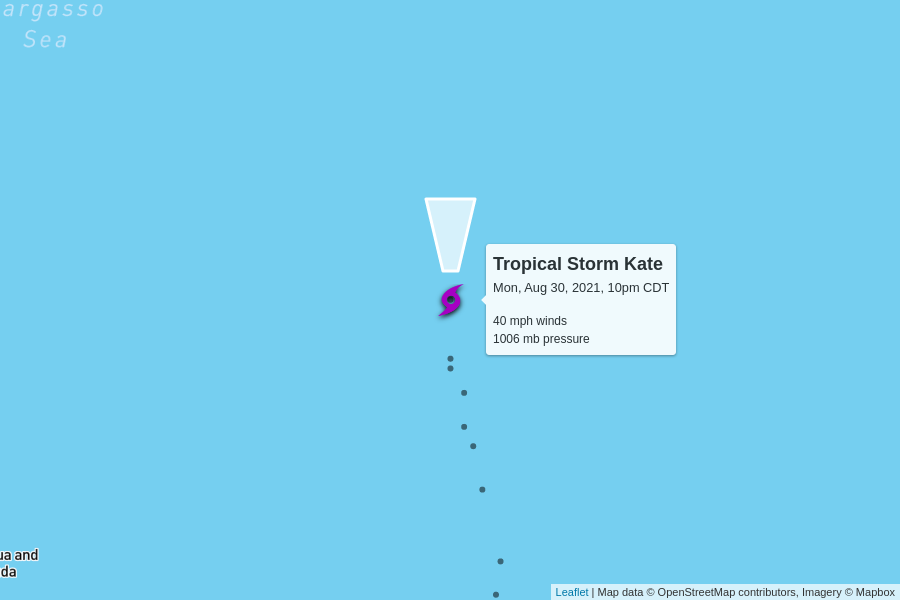
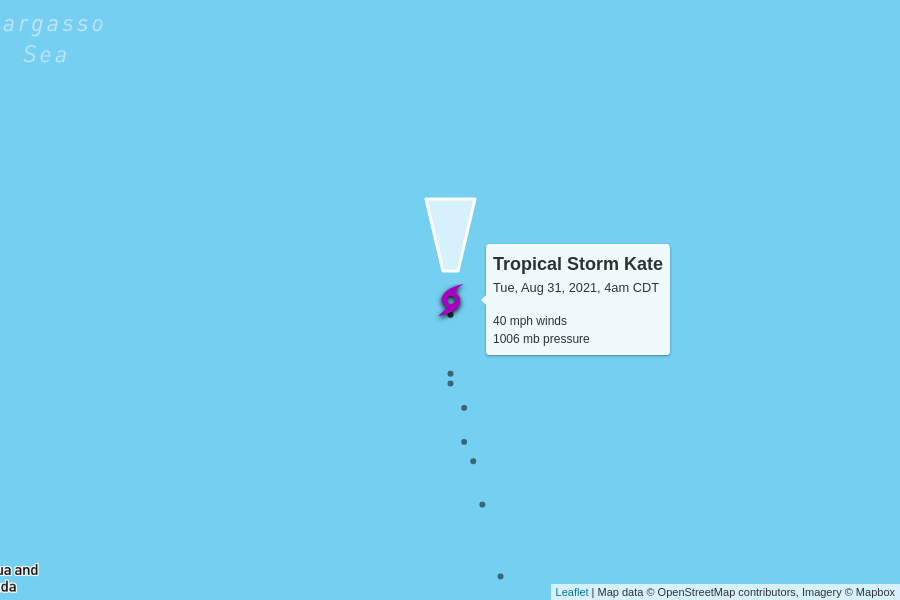
automatic update

diff --git a/docs/index.html b/docs/index.html
@@ -100,7 +100,7 @@
         <td colspan="6" class="storm category-0">
           <h2>
             Tropical Storm Kate
-            <p class="updated">last updated <span data-time>2021-08-31T03:00:00.000Z</span></p>
+            <p class="updated">last updated <span data-time>2021-08-31T09:00:00.000Z</span></p>
           </h2>
         </td>
       </tr>
@@ -118,7 +118,7 @@
         <td>40 mph</td>
         <td>1006 mb</td>
         <td>
-          6 mph to the north
+          5 mph to the north
           <br/>
           <span style="display: inline-block; font-size: 1.5em; transform: rotate(360deg);">↑</span>
         </td>
